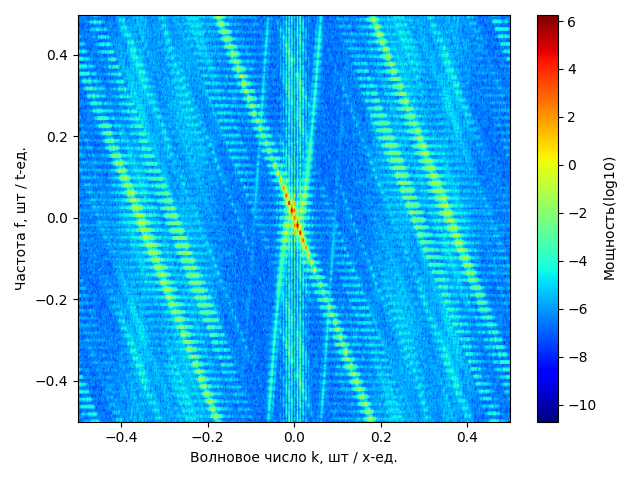
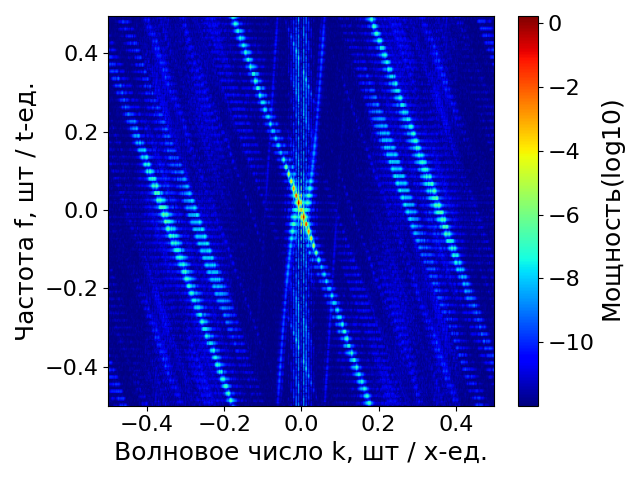
other update

diff --git a/processing_part1.py b/processing_part1.py
@@ -38,7 +38,7 @@ from numpy.fft import fft2, fftshift, fftfreq
 
 nx_max = 1500
 ny_max = 60
-v = 1
+v = 6
 dt_step = 0.001
 x_frac_start = 0.3 
 x_frac_end = 1.0
